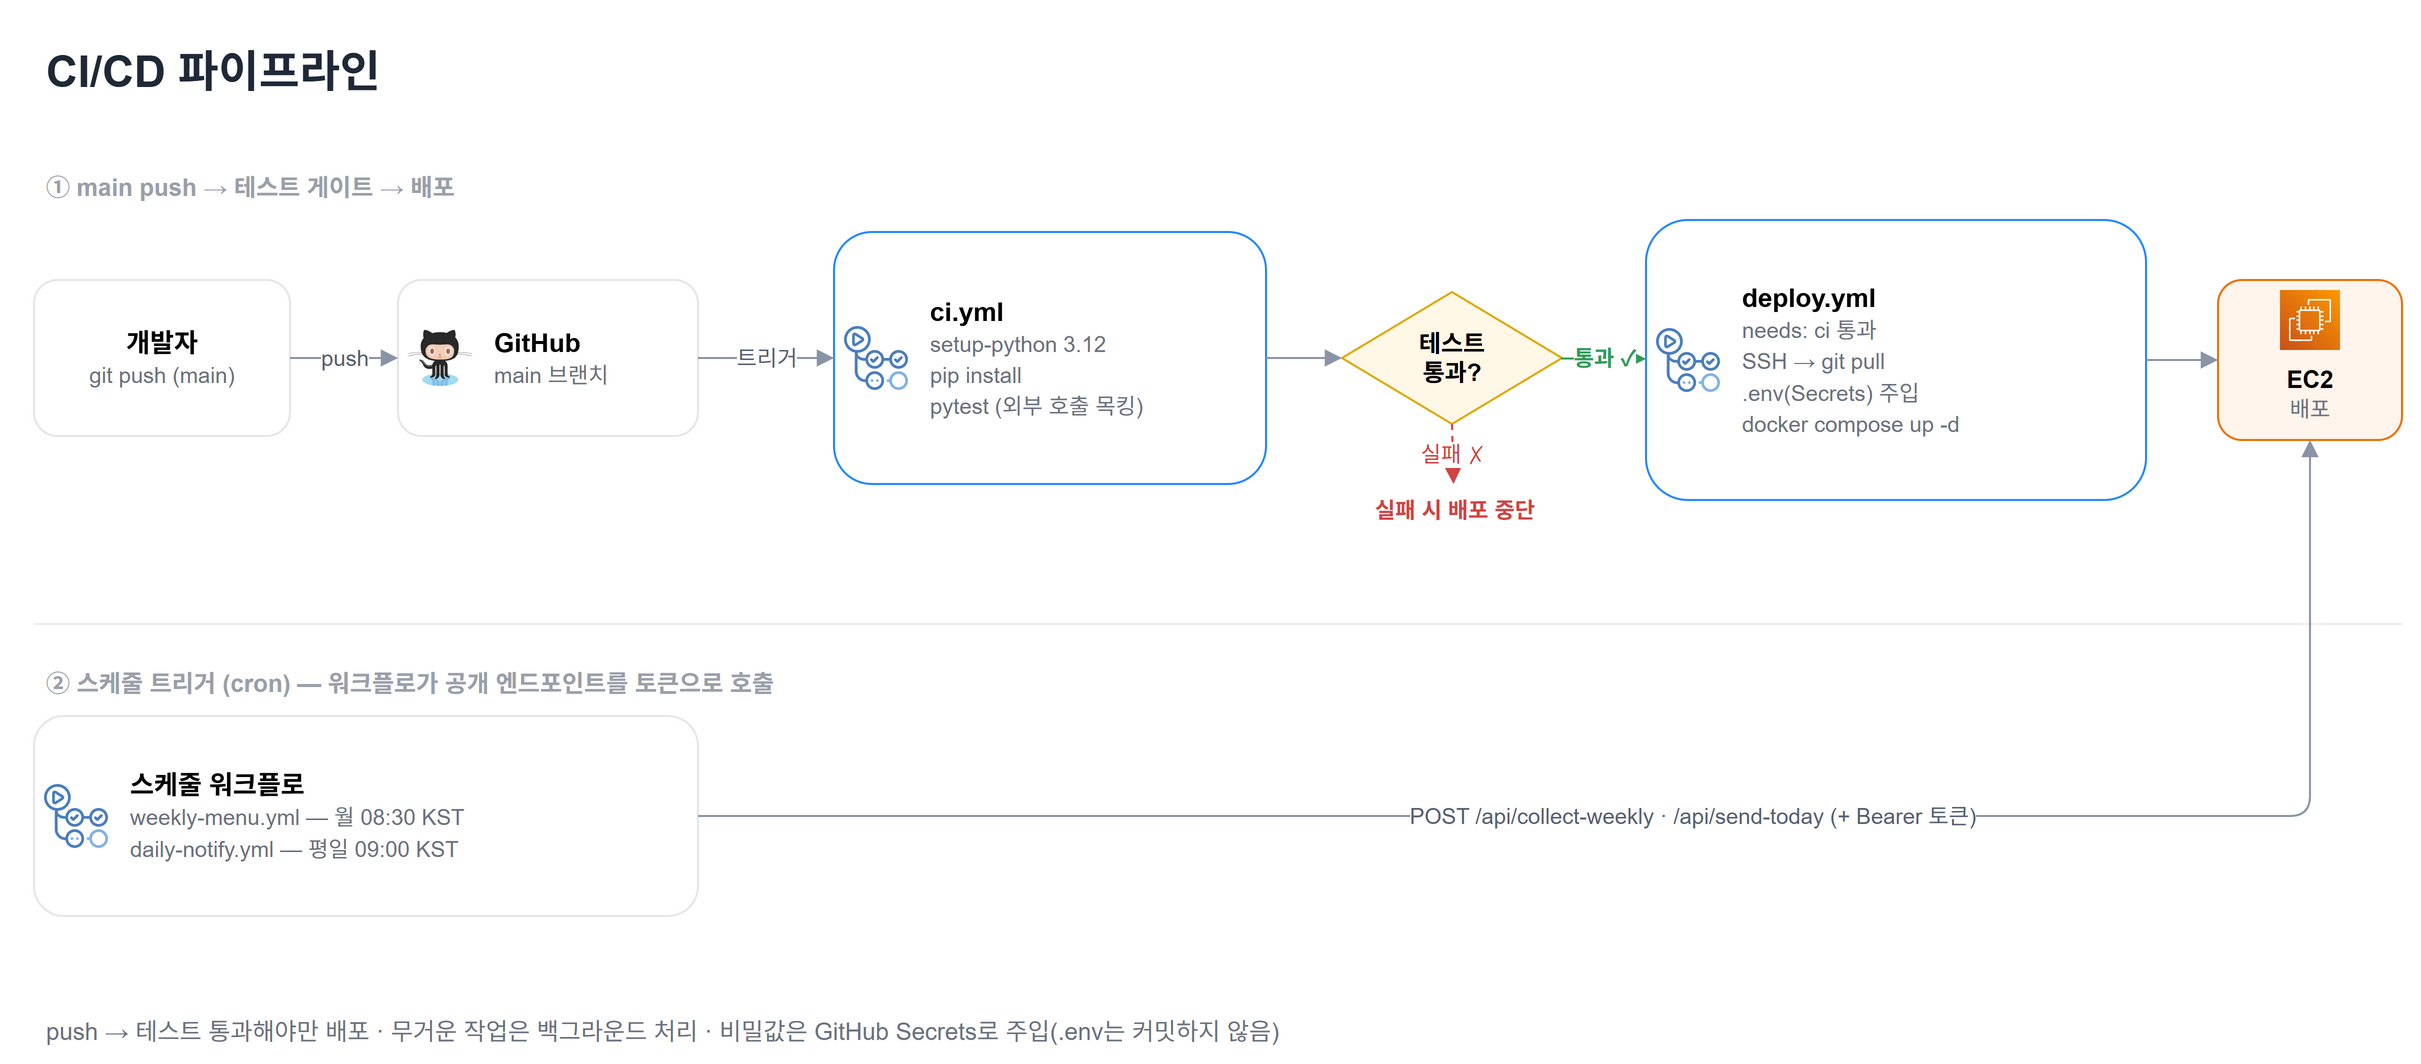
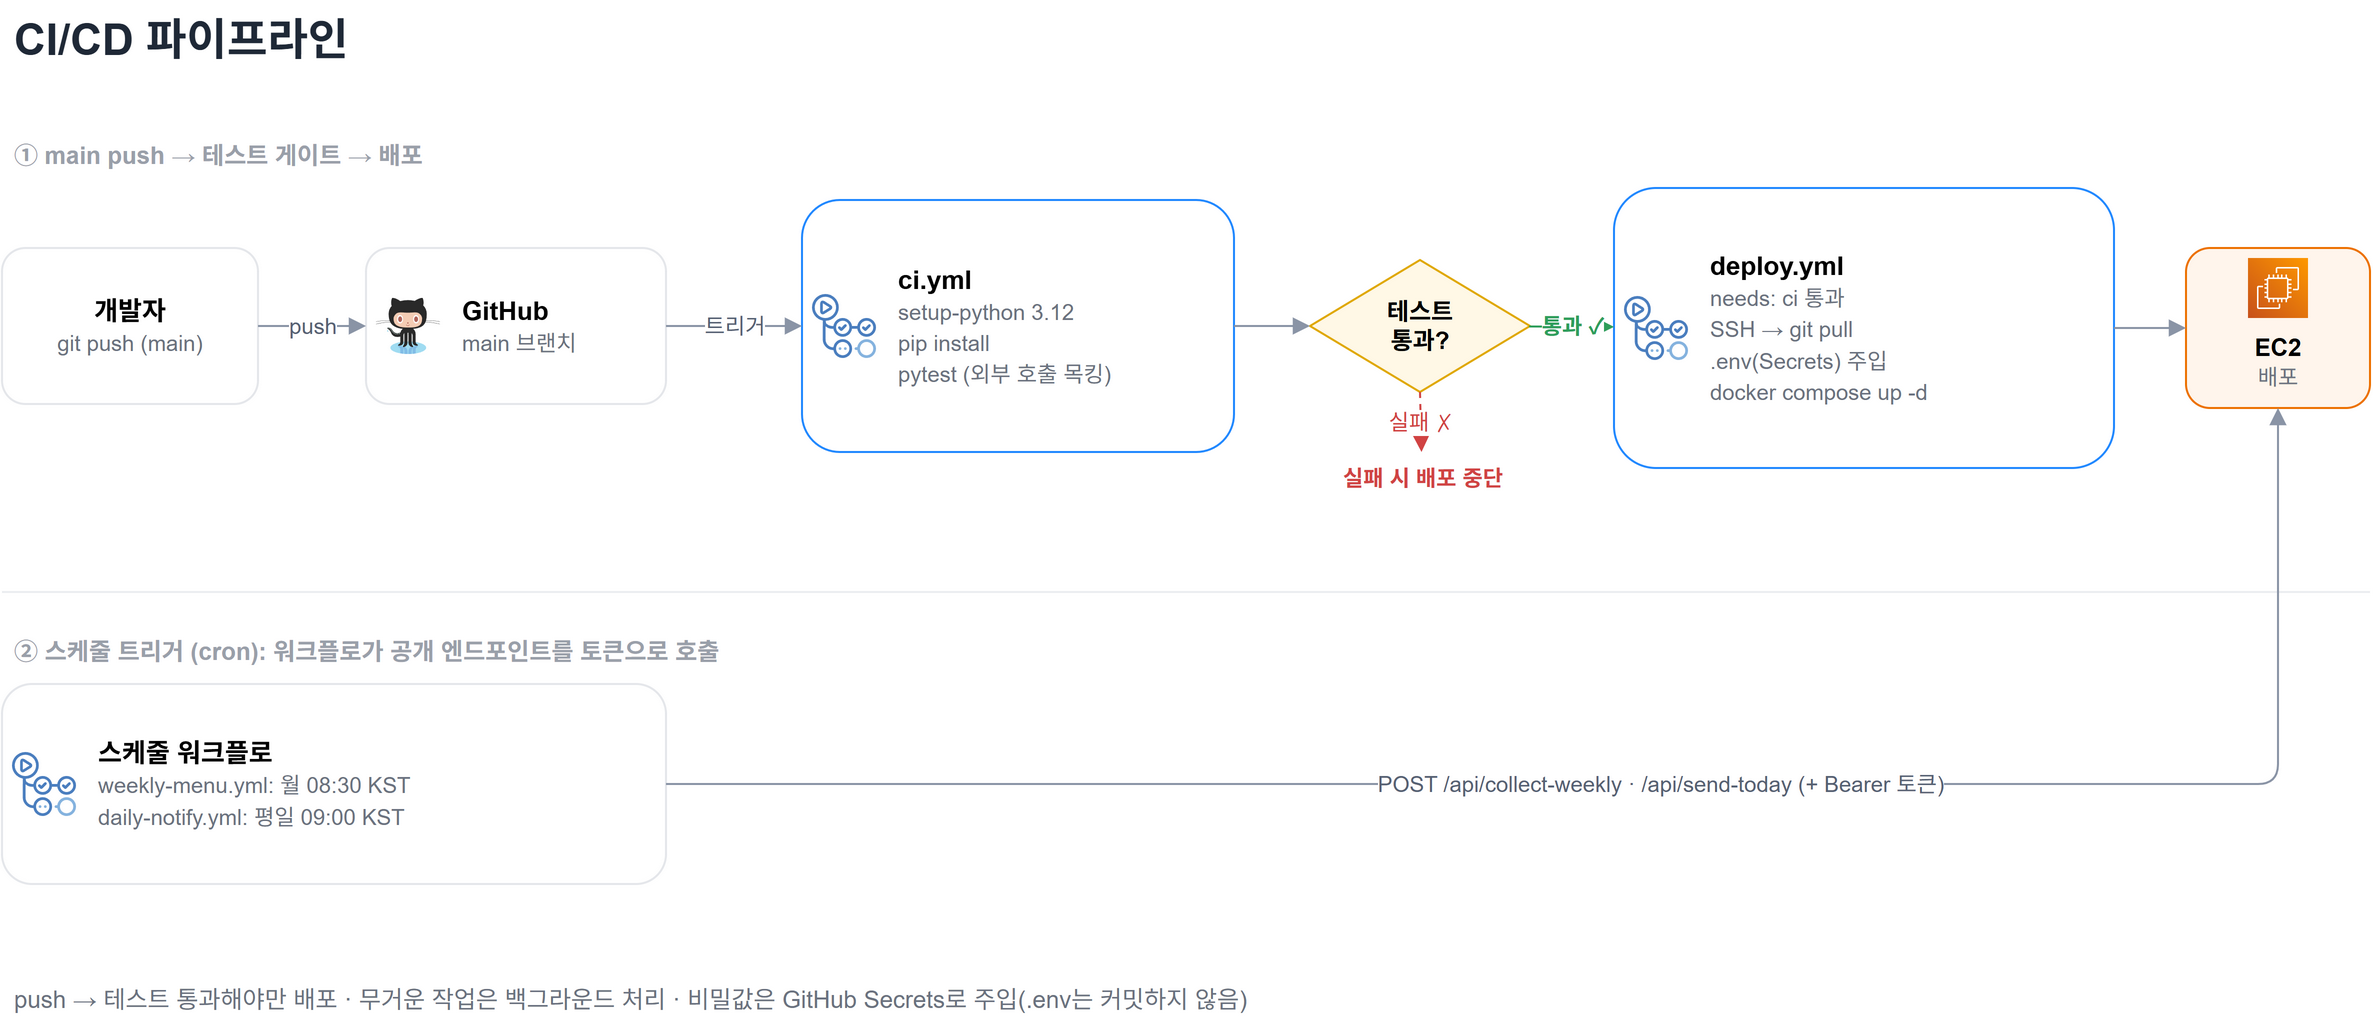
style: em dash 를 문장부호로 바꾸고 도면 렌더 갱신
산문과 도면, 스크립트 출력에 섞여 있던 문자를 문맥에 맞는 문장부호로 바꿨다.
좌우가 독립 문장이면 마침표, 우변이 좌변을 설명하면 쌍점, 나열이면 가운뎃점을 썼다.
낱말을 지우거나 뜻을 바꾼 곳은 없다. 바뀐 파일 전부를 이전 판과 대조해 확인했다.

도면 PNG 2장을 다시 뽑았다. 스타일 게이트가 .md·.txt·.mdx 만 보므로
.dockerignore 와 nginx 설정에 남아 있던 것은 검사에 걸리지 않았다.

python 문법 검사 통과.

diff --git a/app/static/css/style.css b/app/static/css/style.css
@@ -1,10 +1,10 @@
 /* ============================================================
-   AI 점심 큐레이터 — 디자인 시스템
+   AI 점심 큐레이터: 디자인 시스템
    따뜻한 오프화이트 + 테라코타 액센트 / Pretendard / 8px 스케일
    ============================================================ */
 
 :root {
-  /* 색 — light */
+  /* 색: light */
   --bg: #faf8f5;
   --bg-2: #f2ece3;
   --surface: #ffffff;

diff --git a/app/image_service.py b/app/image_service.py
@@ -22,7 +22,7 @@ def generate_image(menus, menu_hash, client=None, images_dir=None,
 
     # 같은 메뉴면 다시 안 만든다. 로컬 파일 먼저, 그 다음 DB 캐시.
     if out_path.exists():
-        logger.info("이미지 캐시 히트 — %s", out_path.name)
+        logger.info("이미지 캐시 히트. %s", out_path.name)
         return rel_url
     if get_cached is not None:
         cached = get_cached(menu_hash)
@@ -37,7 +37,7 @@ def generate_image(menus, menu_hash, client=None, images_dir=None,
         out_path.write_bytes(_extract_image_bytes(result.data[0]))
         if save_cached is not None:
             save_cached(menu_hash, rel_url)
-        logger.info("이미지 생성 — %s", rel_url)
+        logger.info("이미지 생성. %s", rel_url)
         return rel_url
     except Exception as exc:
         logger.warning("이미지 생성 실패(%s) → 기본 이미지", exc)

diff --git a/app/run_bot.py b/app/run_bot.py
@@ -54,9 +54,9 @@ def cmd_notify():
         logger.warning("오늘(%s) 메뉴가 없어 %s 로 대체", today, menu["date"])
 
     base_url = os.getenv("APP_BASE_URL", "http://localhost:8000")
-    logger.info("발송 — %s", korean_date(menu["date"]))
+    logger.info("발송. %s", korean_date(menu["date"]))
     ok = send_today_card(menu, base_url)
-    logger.info("발송 결과 — %s", "성공" if ok else "실패")
+    logger.info("발송 결과: %s", "성공" if ok else "실패")
 
 
 def _enable_utf8_output():

diff --git a/app/main.py b/app/main.py
@@ -117,4 +117,4 @@ def _run_weekly_collect():
         analysis = analyze_menu(menus)
         image_url = generate_image(menus, digest, get_cached=db.get_cached_image, save_cached=db.save_cached_image)
         db.upsert_menu(day["date"], digest, menus, analysis, image_url)
-    logger.info("주간 수집 완료 — %d일치", len(week))
+    logger.info("주간 수집 완료. %d일치", len(week))

diff --git a/app/__init__.py b/app/__init__.py
@@ -1,1 +1,1 @@
-"""AI 점심 큐레이터 — 애플리케이션 패키지."""
+"""AI 점심 큐레이터: 애플리케이션 패키지."""
